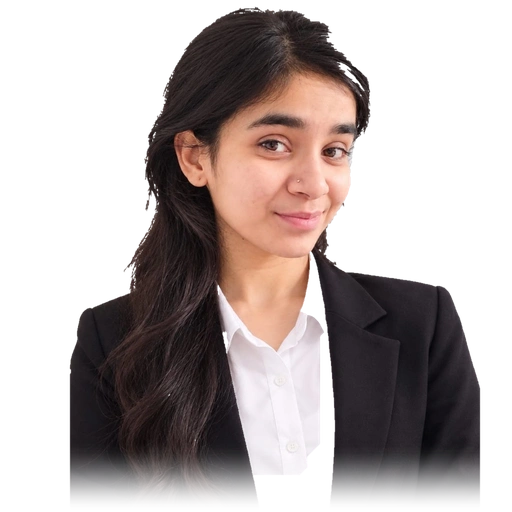
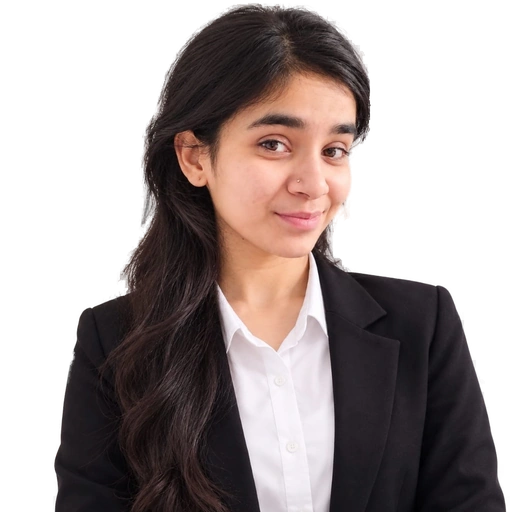
fix(hero): regenerate cutout with soft 8-bit alpha matting and edge decontamination

diff --git a/HeroSection/hero.css b/HeroSection/hero.css
@@ -347,15 +347,44 @@ body.light-mode .hero-rotating-role-bar {
 }
 
 body.light-mode .interactive-portrait-stage {
-    filter: drop-shadow(0 15px 30px rgba(0, 0, 0, 0.18));
+    filter: drop-shadow(0 15px 30px rgba(0, 0, 0, 0.16));
 }
 
 body:not(.light-mode) .interactive-portrait-stage {
-    filter: drop-shadow(0 25px 45px rgba(0, 0, 0, 0.95)) drop-shadow(0 0 35px rgba(255, 59, 31, 0.12));
+    filter: drop-shadow(0 25px 45px rgba(0, 0, 0, 0.85));
+}
+
+/* Photoreal High-DPI Picture & Responsive Fallback */
+.hero-portrait-picture {
+    position: absolute;
+    inset: 0;
+    width: 100%;
+    height: 100%;
+    display: flex;
+    justify-content: center;
+    align-items: flex-end;
+    pointer-events: none;
+    z-index: 1;
+    transition: opacity 0.4s ease;
+}
+
+.hero-portrait-img {
+    height: 100%;
+    width: 100%;
+    max-width: 100%;
+    max-height: 100%;
+    display: block;
+    object-fit: contain;
+    object-position: bottom center;
+    user-select: none;
+    -webkit-user-select: none;
+    pointer-events: none;
 }
 
 /* HTML5 Canvas Eye Tracking Stage */
 .hero-portrait-canvas {
+    position: relative;
+    z-index: 2;
     height: 100%;
     width: 100%;
     max-width: 100%;

diff --git a/index.html b/index.html
@@ -227,6 +227,11 @@
                 <div class="hero-col hero-col-center">
                     <div class="towering-portrait-wrap" id="towering-portrait-wrap">
                         <div class="interactive-portrait-stage" id="hero-portrait-stage" title="Interactive Eye-Tracking Portrait">
+                            <!-- Photoreal High-DPI Picture (Instant Display & Non-Canvas Fallback) -->
+                            <picture class="hero-portrait-picture" id="hero-portrait-picture">
+                                <source type="image/webp" srcset="hero-cutout.webp 1x, hero-cutout-2x.webp 2x">
+                                <img src="hero-cutout.png" alt="Portrait of Sejal Soni" class="hero-portrait-img" width="1024" height="1024" fetchpriority="high" decoding="async">
+                            </picture>
                             <!-- 60fps HTML5 Canvas Portrait Layer -->
                             <canvas class="hero-portrait-canvas" id="hero-portrait-canvas" width="1024" height="1024" aria-label="Portrait of Sejal Soni with interactive eye tracking"></canvas>
                         </div>

diff --git a/HeroSection/EyeTracker.js b/HeroSection/EyeTracker.js
@@ -104,6 +104,12 @@ export class EyeTracker {
             // Render first clean frame immediately
             this.renderFrame(0, 0, 0, 0, 0);
 
+            // Hide fallback picture once canvas is active
+            const fallbackPic = document.getElementById('hero-portrait-picture');
+            if (fallbackPic) {
+                fallbackPic.style.opacity = '0';
+            }
+
             // Bind listeners & start animation loop
             this.bindEvents();
             this.scheduleNextBlink();
